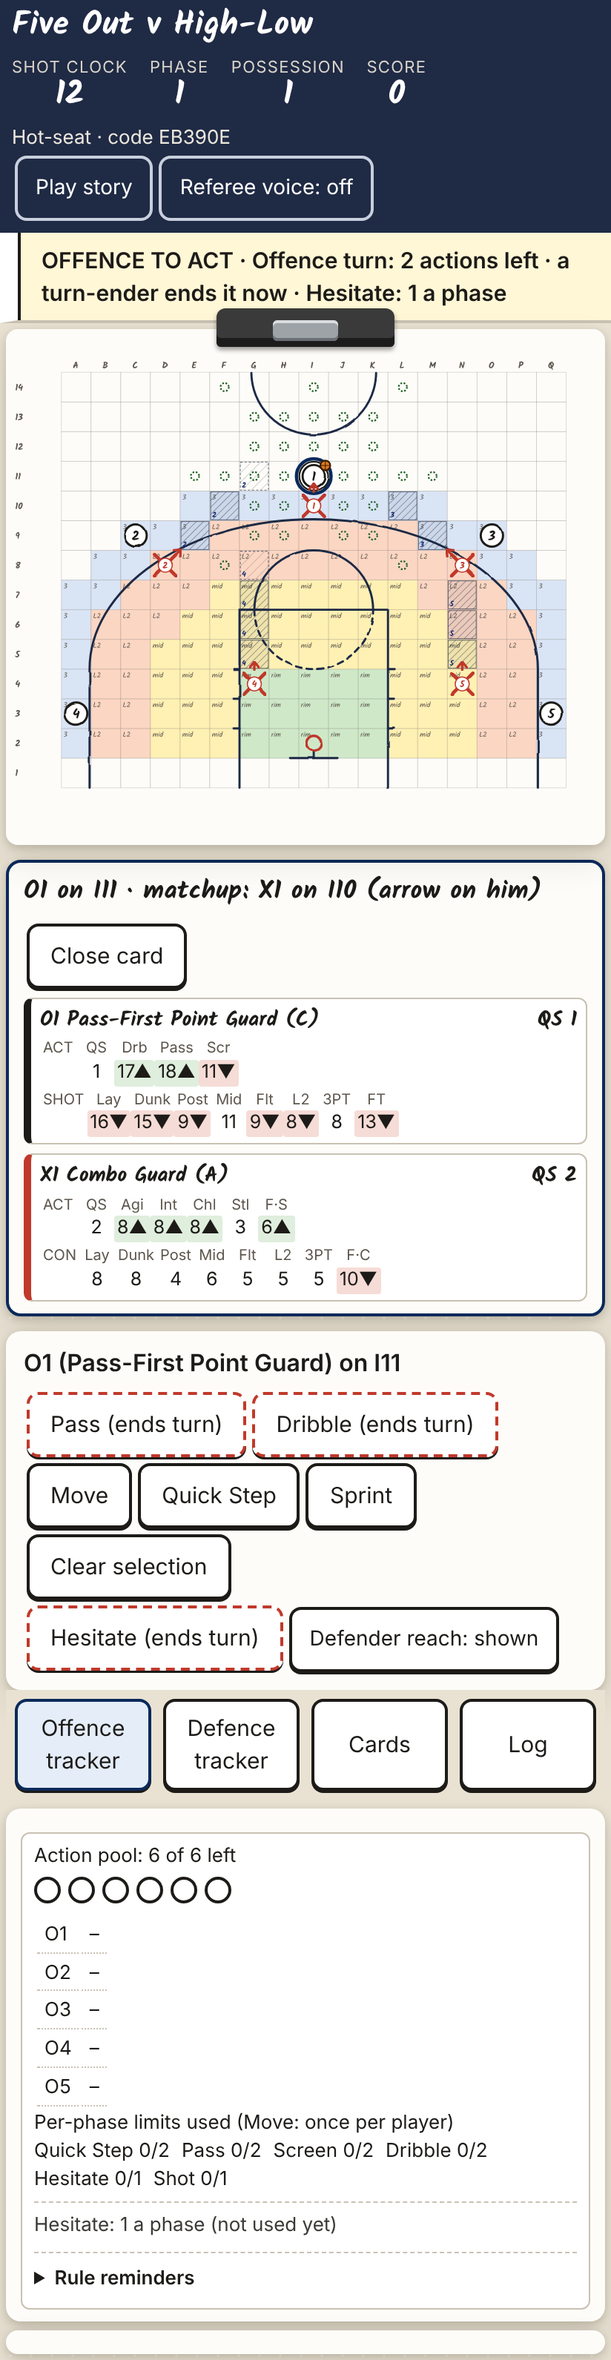
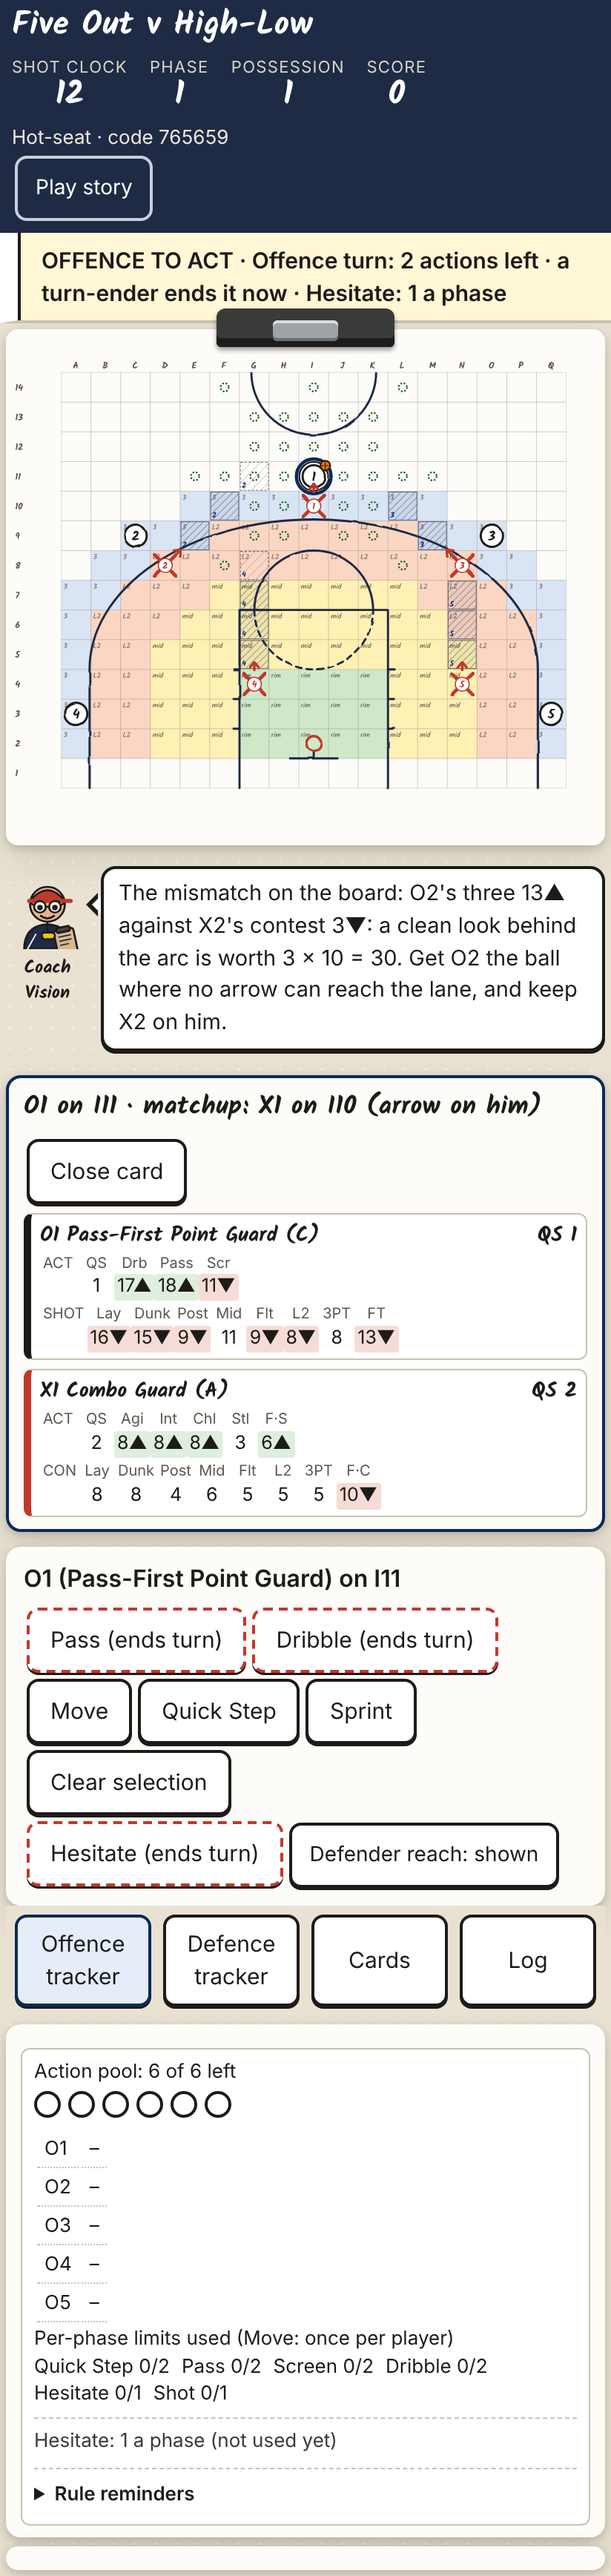
No voices: the characters write. The coach reads the live board (the mismatch and the shot it leads to); diagram tags nudge apart; capacity tags drawn beside the piece
Claude-Session: https://claude.ai/code/session_01FDQZLbkGFrzjRJM6FeKbhu

Changed region(s): [[0.0, 0.0, 1.0, 0.995], [0.8799, 0.4664, 0.9709, 0.4975]]

diff --git a/playmaker/playmaker_web/static/app.js b/playmaker/playmaker_web/static/app.js
@@ -251,8 +251,7 @@ function render() {
     ...(s.timer ? [el('div', { text: s.timer.handicap ? `Timer (handicap): player A ${s.timer.setting.A || 'off'}${s.timer.setting.A ? ' s' : ''}, player B ${s.timer.setting.B || 'off'}${s.timer.setting.B ? ' s' : ''}` : `Timer: ${s.timer.setting.A} s per decision` })] : []),
     ...((s.experimental || []).length ? [el('div', { class: 'exp', text: `Experimental lineup: ${s.experimental.join(', ')}` })] : []),
     ...(s.scout && s.scout.report && s.scout.report.level !== 'pro' ? [el('button', { class: 'small', text: 'Scout report', onclick: () => showReport('Scout report') })] : []),
-    el('button', { class: 'small', text: 'Play story', onclick: showStory }),
-    el('button', { class: 'small', 'aria-pressed': playVoice() ? 'true' : 'false', text: playVoice() ? 'Referee voice: on' : 'Referee voice: off', onclick: e => { try { localStorage.setItem('pm_voice_play', playVoice() ? '0' : '1'); } catch (x) { /* ignore */ } render(); } }));
+    el('button', { class: 'small', text: 'Play story', onclick: showStory }));
   renderCoachLine();
   const sideChip = s.stage === 'over' ? '' : (s.side_to_act === 'O' ? 'OFFENCE TO ACT · ' : s.side_to_act === 'X' ? 'DEFENCE TO ACT · ' : '');
   $('summary').textContent = replay ? `${sideName(replay.entries[replay.k].side).toUpperCase()} ACTED · ${s.summary}`
@@ -394,6 +393,9 @@ function pieceLabel(side, p) {
   if (side === 'O' && p.screen) bits.push(`screening, T to the ${COMPASS[p.screen.dir]}`);
   if (side === 'X') bits.push(`arrow pointing ${COMPASS[p.arrow]}`);
   if (p.locked) bits.push('locked');
+  const b = st.influence && st.influence.badges && st.influence.badges[side] && st.influence.badges[side][p.i];
+  if (b && b.move) bits.push('Move used');
+  if (b && b.qs) bits.push('Quick Step used');
   if (sel.side === side && sel.i === p.i) bits.push('selected');
   const n = pieceActs(side, p.i).length;
   if (st.can_act && n) bits.push(`${n} legal action${n === 1 ? '' : 's'}`);
@@ -416,18 +418,18 @@ function pieceGroup(side, i, opts) {
 function drawO(c, p, opts) {
   const g = pieceGroup('O', p.i, opts);
   PM.pieceO(g, p.x, p.y, p.i + 1, { ball: p.ball, screen: p.screen ? p.screen.dir : null });
-  const b = st.influence && st.influence.badges && st.influence.badges.O[p.i];
-  PM.tags(g, p.x, p.y, b, p.locked);
   c.append(g);
+  const b = st.influence && st.influence.badges && st.influence.badges.O[p.i];
+  const tg = svg('g', { class: 'tags', 'aria-hidden': 'true' }); PM.tags(tg, p.x, p.y, b, p.locked); c.append(tg);
 }
 
 function drawX(c, p, opts) {
   const g = pieceGroup('X', p.i, opts);
   const wedge = st.influence && st.influence.arrow_mode === 'wedge';
   PM.pieceX(g, p.x, p.y, p.i + 1, wedge ? [p.arrow, (p.arrow + 1) % 8] : [p.arrow]);
-  const b = st.influence && st.influence.badges && st.influence.badges.X[p.i];
-  PM.tags(g, p.x, p.y, b, p.locked);
   c.append(g);
+  const b = st.influence && st.influence.badges && st.influence.badges.X[p.i];
+  const tg = svg('g', { class: 'tags', 'aria-hidden': 'true' }); PM.tags(tg, p.x, p.y, b, p.locked); c.append(tg);
 }
 
 // Zones of influence (every defender, along his arrow line, out to his current reach), active screens and the
@@ -632,18 +634,17 @@ async function submit(a) {
 
 function confirmRoll(a) {
   return new Promise(res => {
-    modal([el('h2', { text: a.text }), PMCoach.line('ref', 'This one goes to the dice. ' + a.roll.map(t => t.text.replace(/^(Offence|Defence) rolls: /, '')).join(' Then ') + '.', { compact: true, speak: playVoice(), live: false }),
+    modal([el('h2', { text: a.text }), PMCoach.line('ref', 'This one goes to the dice. ' + a.roll.map(t => t.text.replace(/^(Offence|Defence) rolls: /, '')).join(' Then ') + '.', { compact: true, speak: false, live: false }),
       el('ul', {}, a.roll.map(t => el('li', {}, [rollerChip(t.roller), ' ' + t.text]))),
       el('button', { class: 'primary', text: 'Roll', onclick: () => { closeModal(); res(true); } }),
       el('button', { text: 'Cancel', onclick: () => { closeModal(); res(false); } })], () => res(false));
   });
 }
 
-function playVoice() { try { return localStorage.getItem('pm_voice_play') === '1'; } catch (e) { return false; } }
 function showRolls(rolls) {
   return new Promise(res => {
     const call = rolls.map(r => `${r.what.replace(/ \(.*\)$/, '')}: rolled ${r.face}, ${r.picked}.`).join(' ');
-    const box = [el('h2', { text: 'The call' }), PMCoach.line('ref', call, { compact: true, speak: playVoice(), live: false })];
+    const box = [el('h2', { text: 'The call' }), PMCoach.line('ref', call, { compact: true, speak: false, live: false })];
     for (const r of rolls) {
       const ok = r.face <= r.need;
       box.push(el('div', {}, [rollerChip(r.roller), el('span', { class: 'die roll' + (r.roller === 'X' ? ' black' : ''), text: r.face }), el('span', { text: `${r.text} → rolled ${r.face}: ${r.picked}` })]));
@@ -674,7 +675,7 @@ function endModal() {
     'A Poor result. Look at the story: where did the possession lose its goal?';
   const kids = [el('h2', { text: s.full ? `Possession ${s.possession} over` : 'Possession over' }),
     el('p', {}, [el('span', { class: 'band ' + r.band, text: `${r.total} · ${r.band}` }), ' ', el('span', { class: 'note', text: r.detail || '' })]),
-    PMCoach.line('coach', verdict, { compact: true, speak: playVoice(), live: false }),
+    PMCoach.line('coach', verdict, { compact: true, speak: false, live: false }),
     el('table', { class: 'bk' }, rows.map(([k, v]) => el('tr', {}, [el('td', { text: k }), el('td', { text: String(v) })])))];
   if (s.scenario) kids.push(el('p', { text: `Goal (look 30+): ${r.goal_met ? 'met' : 'missed'} (look ${r.look})` + (r.late_clock ? ` · result: ${r.late_clock}` : '') }));
   if (s.target !== null && s.target !== undefined && s.target !== 'secret' && s.target >= 0) kids.push(el('p', { text: `The secret target was O${s.target + 1}.` }));
@@ -1119,7 +1120,7 @@ function renderStep() {
   const calls = e.outcomes.filter(o => o.tone !== 'info').map(o => o.text);
   const call = e.rolls.length ? e.rolls.map(r => `${r.what.replace(/ \(.*\)$/, '')}: rolled ${r.face}, ${r.picked}.`).join(' ') + (calls.length ? ' ' + calls.join(' ') : '') : calls.join(' ');
   bar.append(el('div', { class: 'step-count', text: `${sideName(e.side)}${e.actor === 'ai' ? ' (computer)' : ''} · action ${replay.k + 1} of ${n}` }),
-    feedEntry(e), call ? PMCoach.line('ref', call, { compact: true, speak: playVoice(), live: false }) : null,
+    feedEntry(e), call ? PMCoach.line('ref', call, { compact: true, speak: false, live: false }) : null,
     el('button', { class: 'primary', id: 'stepOk', text: label, onclick: stepOn }));
   announce(`${sideName(e.side)}: ${e.text}. ` + e.rolls.map(r => `Rolled ${r.face}: ${r.picked}.`).join(' ') + ' ' + e.outcomes.map(o => o.text).join(' '));
   $('stepOk').focus();
@@ -1337,20 +1338,46 @@ if ($('level')) { $('level').addEventListener('change', showLevelNote); showLeve
 
 
 // ---------------------------------------------------------------- Coach Vision on the sideline
+// The coach reads the board from the cards both players can see: for each attacker and the defender on him
+// (the matchup the squares and arrows show), the shot where the attacker's rating beats the contest by most,
+// counted as points x (shot - contest). That edge is the mismatch; the line names it and the shot it leads to.
+const SHOT_PTS = { Layup: 2, Dunk: 2, Post: 2, Mid: 2, Floater: 2, 'Long 2': 2, Three: 3 };
+const SHOT_WHERE = { Layup: 'at the rim', Dunk: 'at the rim', Post: 'on the block', Mid: 'from mid-range', Floater: 'from the paint', 'Long 2': 'from a long two', Three: 'behind the arc' };
+function boardEdges(s) {
+  const out = [];
+  const rating = (card, name) => { for (const g of card.groups) for (const r of g.ratings) if (r.name === name) return r; return null; };
+  for (const o of s.o) {
+    const js = (s.matchups.O || [])[o.i] || []; if (!js.length || !o.card) continue;
+    const x = s.x[js[0]];
+    for (const name of Object.keys(SHOT_PTS)) {
+      const sh = rating(o.card, name), con = rating(x.card, 'v ' + name);
+      if (!sh || !con) continue;
+      const edge = SHOT_PTS[name] * (sh.value - con.value);
+      out.push({ o: o.i, x: x.i, shot: name, edge, sh, con, mismatch: sh.band === 'H' && con.band !== 'H' || con.band === 'L' && sh.band !== 'L' });
+    }
+  }
+  return out.sort((a, b) => b.edge - a.edge);
+}
 let coachSaid = null;
 function renderCoachLine() {
   const box = $('coachLine'); if (!box) return;
   box.innerHTML = '';
-  const s = st; if (!s || !s.can_act || s.stage === 'over' || replay) return;
+  const s = st; if (!s || !s.can_act || s.stage === 'over' || replay || s.placing || !s.matchups) return;
   const side = s.side_to_act, mine = s.scout && s.scout.mine;
+  const edges = boardEdges(s), best = edges.find(e => e.mismatch) || edges[0];
+  const show = e => `O${e.o + 1}'s ${e.shot.toLowerCase()} ${e.sh.value}${e.sh.mark} against X${e.x + 1}'s contest ${e.con.value}${e.con.mark}: a clean look ${SHOT_WHERE[e.shot]} is worth ${SHOT_PTS[e.shot]} × ${e.sh.value - e.con.value} = ${e.edge}`;
   let text = null;
-  if (side === 'O' && mine && mine.hunt) text = `Your call was to hunt O${mine.hunt.o} against X${mine.hunt.x}. Get him the ball where no arrow can reach the lane, then make X${mine.hunt.x} guard him.`;
-  else if (side === 'X' && mine && mine.protect) text = `Your call was to protect X${mine.protect.x}. Don't leave him with two jobs: keep help beside him and his arrow on his man.`;
-  else if (side === 'O' && s.level === 'learn') text = 'Pick a goal before you pick an action: which matchup is ours, and what shot does it lead to?';
-  else if (side === 'X' && s.level === 'learn') text = 'Read the arrows: every pass lane either has a defender who can reach it, or it doesn\'t.';
+  if (side === 'O' && best && best.edge > 0) {
+    text = `The mismatch on the board: ${show(best)}. ` + (best.o === (s.o.find(p => p.ball) || {}).i ? 'He has the ball: get him to that spot with no arrow on him.' : `Get O${best.o + 1} the ball where no arrow can reach the lane, and keep X${best.x + 1} on him.`);
+    if (mine && mine.hunt && mine.hunt.o - 1 !== best.o) text += ` (Your call was O${mine.hunt.o} v X${mine.hunt.x}; the board says this one is bigger right now.)`;
+  } else if (side === 'X' && best && best.edge > 0) {
+    text = `Their edge on the board: ${show(best)}. Keep X${best.x + 1}'s arrow on him, or switch a better contester onto him before the catch.`;
+    if (mine && mine.protect) text += ` Your call was to protect X${mine.protect.x}: don't leave him with two jobs.`;
+  } else if (side === 'O') text = 'No mismatch on the board right now. Move the defence first: a screen or a cut that makes a defender choose.';
+  else if (side === 'X') text = 'No edge for them on the board. Keep your shape: every lane answered, every arrow on a man.';
   if (!text) return;
-  const key = `${s.possession}:${s.phase}:${side}`;
-  box.append(PMCoach.line('coach', text, { compact: true, speak: false, live: coachSaid !== key }));
+  const key = `${s.possession}:${s.phase}:${side}:${s.turn}`;
+  box.append(PMCoach.line('coach', text, { compact: true, live: coachSaid !== key }));
   coachSaid = key;
 }
 

diff --git a/playmaker/playmaker_web/static/coach.js b/playmaker/playmaker_web/static/coach.js
@@ -1,6 +1,5 @@
 // Coach Vision and the Referee: the two voices of Playmaker. The coach teaches reads (scouting, goals,
-// mismatches, shot quality); the referee makes the calls (rolls, fouls, turnovers, the clock). Both speak
-// (Web Speech, optional) and always show their words. The guided rules course is a sequence of lessons, each
+// mismatches, shot quality); the referee makes the calls (rolls, fouls, turnovers, the clock). They write; nothing is spoken. The guided rules course is a sequence of lessons, each
 // with a whiteboard drawn by the notation library. Nothing here decides a rule.
 'use strict';
 window.PMCoach = (function () {
@@ -61,29 +60,8 @@ window.PMCoach = (function () {
     return g;
   }
 
-  // ---- speech -------------------------------------------------------------------------------------------
-  const speech = {
-    on() { try { return localStorage.getItem('pm_voice') !== '0'; } catch (e) { return true; } },
-    set(v) { try { localStorage.setItem('pm_voice', v ? '1' : '0'); } catch (e) { /* ignore */ } if (!v) this.stop(); },
-    available() { return 'speechSynthesis' in window && typeof SpeechSynthesisUtterance !== 'undefined'; },
-    stop() { if (this.available()) try { window.speechSynthesis.cancel(); } catch (e) { /* ignore */ } },
-    voice(who) {
-      const vs = window.speechSynthesis.getVoices().filter(v => /^en/i.test(v.lang));
-      if (!vs.length) return null;
-      const pick = (re) => vs.find(v => re.test(v.name));
-      return who === 'coach' ? (pick(/Daniel|Google UK English Male|Male|Alex|Fred/i) || vs[0]) : (pick(/Samantha|Google UK English Female|Female|Karen|Moira/i) || vs[vs.length - 1]);
-    },
-    say(who, text) {
-      if (!this.on() || !this.available() || !text) return;
-      try {
-        window.speechSynthesis.cancel();
-        const u = new SpeechSynthesisUtterance(text.replace(/[▲▼]/g, '').replace(/\s*·\s*/g, '. '));
-        const v = this.voice(who); if (v) u.voice = v;
-        u.rate = 1.0; u.pitch = who === 'coach' ? 0.95 : 1.1; u.lang = 'en-GB';
-        window.speechSynthesis.speak(u);
-      } catch (e) { /* speech is optional */ }
-    },
-  };
+  // ---- no speech: the characters write, they don't talk ----------------------------------------------
+  const speech = { on() { return false; }, set() {}, available() { return false; }, stop() {}, say() {} };
 
   // A character's line: avatar, name tag, the words in a bubble (also read to screen readers).
   function line(who, text, opts) {
@@ -92,7 +70,6 @@ window.PMCoach = (function () {
     const box = el('div', { class: `speak speak-${who}` + (opts.compact ? ' compact' : '') }, [
       el('div', { class: 'speak-av' }, [avatar(who, opts.compact ? 48 : 84), el('div', { class: 'speak-name', text: name })]),
       el('div', { class: 'bubble', role: opts.live === false ? null : 'status', 'aria-live': opts.live === false ? null : 'polite' }, [el('p', { text })])]);
-    if (opts.speak !== false) speech.say(who, text);
     return box;
   }
 
@@ -176,12 +153,10 @@ window.PMCoach = (function () {
     container.innerHTML = '';
     const box = el('section', { class: 'course', role: 'dialog', 'aria-modal': 'true', 'aria-labelledby': 'courseTitle' });
     container.append(box);
-    const voiceBtn = () => el('button', { class: 'small', 'aria-pressed': speech.on() ? 'true' : 'false', text: speech.on() ? 'Voice: on' : 'Voice: off',
-      onclick: e => { speech.set(!speech.on()); e.currentTarget.textContent = speech.on() ? 'Voice: on' : 'Voice: off'; e.currentTarget.setAttribute('aria-pressed', speech.on() ? 'true' : 'false'); if (speech.on()) speech.say(LESSONS[k].who, LESSONS[k].text); } });
     function show() {
       const L = LESSONS[k];
       box.innerHTML = '';
-      box.append(el('div', { class: 'course-head' }, [el('h2', { id: 'courseTitle', text: `${k + 1}. ${L.title}` }), el('span', { class: 'course-count', text: `${k + 1} of ${LESSONS.length}` }), voiceBtn()]));
+      box.append(el('div', { class: 'course-head' }, [el('h2', { id: 'courseTitle', text: `${k + 1}. ${L.title}` }), el('span', { class: 'course-count', text: `${k + 1} of ${LESSONS.length}` })]));
       box.append(el('div', { class: 'course-body' }, [line(L.who, L.text), el('div', { class: 'course-board diagrambox' }, [board(L)])]));
       if (L.cards && opts.cardsEl) box.append(opts.cardsEl());
       box.append(el('div', { class: 'course-nav' }, [

diff --git a/playmaker/playmaker_web/static/notation.js b/playmaker/playmaker_web/static/notation.js
@@ -181,7 +181,14 @@ window.PMNotation = (function () {
     return [ax + ux * r0, ay + uy * r0, bx - ux * r1, by - uy * r1];
   }
   let TAG = 1;                        // the turn tags' size (diagrams draw them a little larger than the live board)
+  let placedTags = [];                // where tags have gone, so a new one that would land on another nudges aside
   function numberTag(g, x, y, n, ink) {
+    const r = 7.5 * TAG, min = 2.1 * r;
+    const tries = [[0, 0], [0, -min], [0, min], [-min, 0], [min, 0], [-min, -min], [min, min], [min, -min], [-min, min]];
+    for (const [dx, dy] of tries) {
+      if (!placedTags.some(([px0, py0]) => Math.hypot(px0 - (x + dx), py0 - (y + dy)) < min)) { x += dx; y += dy; break; }
+    }
+    placedTags.push([x, y]);
     const grp = svg('g', { class: 'turnno' });
     grp.append(svg('circle', { cx: x, cy: y, r: 7.5 * TAG, fill: '#fff', stroke: ink, 'stroke-width': 1.4 * TAG }));
     grp.append(svg('text', { x, y: y + 3.6 * TAG, 'text-anchor': 'middle', 'font-size': 9.5 * TAG, 'font-weight': 'bold', fill: ink, 'aria-hidden': 'true' }, String(n)));
@@ -202,6 +209,7 @@ window.PMNotation = (function () {
   function marks(root, list, opts) {
     opts = opts || {};
     TAG = opts.tag || 1;
+    placedTags = [];
     const g = svg('g', { class: 'marks', 'aria-hidden': 'true' });
     const passLines = {};             // receiver square -> the pass line's end, so an intercept can slash it
     for (const m of list) {

diff --git a/playmaker/README.md b/playmaker/README.md
@@ -67,8 +67,7 @@ then publishes them. To rebuild by hand: `python -m playmaker_web.build_site`.
 
 The page is a coach's clipboard: a whiteboard court with Xs and Os in marker, paper sheets for the cards and
 trackers, and two characters. **Coach Vision** teaches the reads (scouting, goals, mismatches, shot quality);
-the **Referee** makes every call (rolls, fouls, turnovers, the clock). Both show their words; both can speak
-(Web Speech, a toggle; off by default in play, on in the course).
+the **Referee** makes every call (rolls, fouls, turnovers, the clock). They write; nothing is spoken.
 
 - **Start screen:** four paths. *Learn the rules* is a guided course of fourteen lessons, each with a
   whiteboard drawn in notation and read by the coach or the referee (`docs/clipboard_course.png`). *Play the
@@ -86,8 +85,9 @@ the **Referee** makes every call (rolls, fouls, turnovers, the clock). Both show
   defence's answer are both 1, the next pair 2, and so on). Continue moves on; *Save as image* downloads it;
   *Play story* shows every phase so far and saves them all (`docs/clipboard_phase.png`,
   `docs/clipboard_story.png`). The story is also what the end screen leads with.
-- **The coach on the sideline:** on your turn a line from Coach Vision restates your scouting call (the
-  matchup to hunt, the weakness to protect). The referee reads each roll before it is thrown and calls the
+- **The coach on the sideline:** on your turn a line from Coach Vision reads the board from the cards both
+  players see: the biggest edge between an attacker and the defender on him (points × (shot − contest)),
+  the spot it is worth taking from, and how it compares with your scouting call (`docs/clipboard_coach.png`). The referee reads each roll before it is thrown and calls the
   result; in the step-through he calls the other side's rolls and turnovers.
 - **Legibility and access:** body text in a plain sans at 15 px, the marker hand for headings and the board;
   zone washes are pale and every square is labelled on the live court; dialogs open at their title and trap
